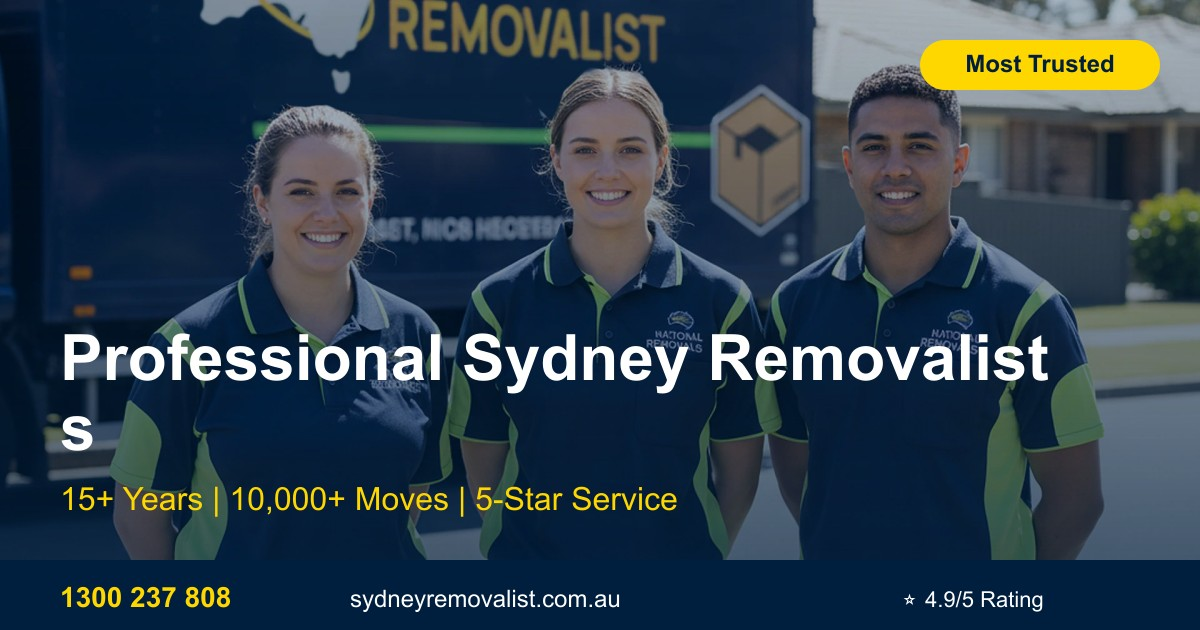
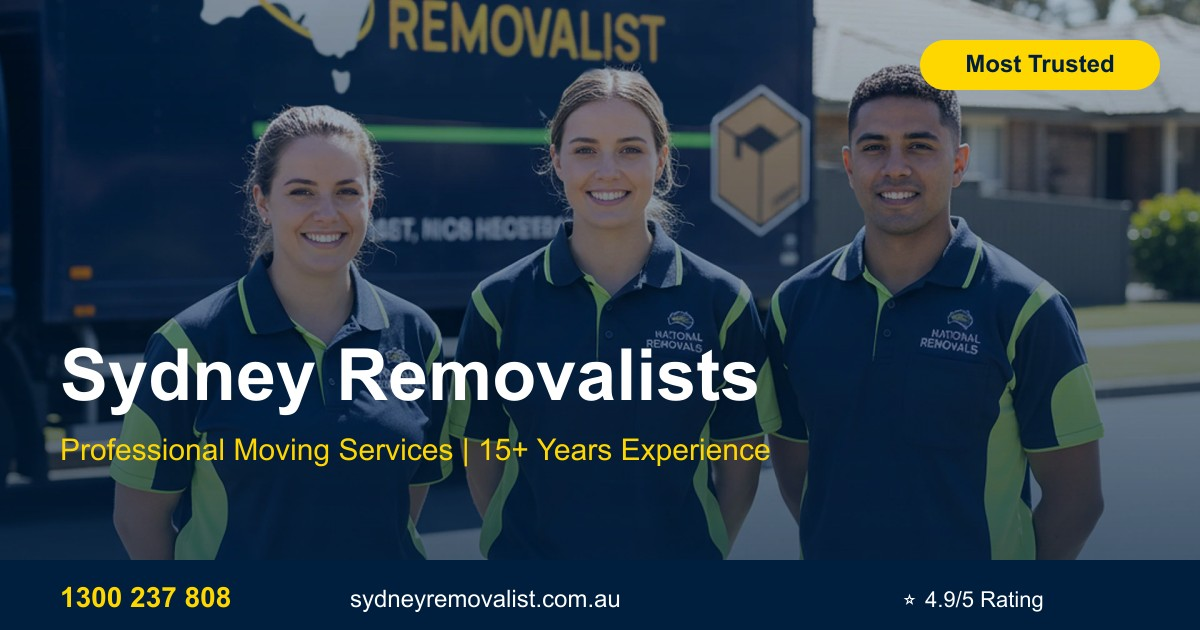
change home og image

Changed region(s): [[0.0308, 0.5127, 0.8942, 0.6635], [0.0308, 0.6635, 0.6475, 0.8143]]

diff --git a/scripts/generate-home-og-only.js b/scripts/generate-home-og-only.js
@@ -1,0 +1,65 @@
+const sharp = require('sharp');
+const fs = require('fs');
+const path = require('path');
+
+const OG_WIDTH = 1200;
+const OG_HEIGHT = 630;
+
+const COLORS = {
+  navy: '#001F3F',
+  yellow: '#FFD700',
+  white: '#FFFFFF'
+};
+
+async function generateHomeOG() {
+  const sourcePath = path.join(__dirname, '..', 'assets', 'removalist', '02.webp');
+  const outputPath = path.join(__dirname, '..', 'public', 'og-home.jpg');
+
+  console.log('Generating og-home.jpg...');
+
+  const svg = `
+    <svg width="${OG_WIDTH}" height="${OG_HEIGHT}">
+      <defs>
+        <linearGradient id="overlayGrad" x1="0%" y1="0%" x2="0%" y2="100%">
+          <stop offset="0%" style="stop-color:rgba(0,31,63,0.3);stop-opacity:1" />
+          <stop offset="100%" style="stop-color:rgba(0,31,63,0.75);stop-opacity:1" />
+        </linearGradient>
+      </defs>
+      <rect width="${OG_WIDTH}" height="${OG_HEIGHT}" fill="url(#overlayGrad)"/>
+
+      <rect x="920" y="40" width="240" height="50" rx="25" fill="${COLORS.yellow}"/>
+      <text x="1040" y="72" font-family="Arial, sans-serif" font-size="24" font-weight="bold"
+            fill="${COLORS.navy}" text-anchor="middle">Most Trusted</text>
+
+      <text x="60" y="400" font-family="Arial, sans-serif" font-size="72" font-weight="bold"
+            fill="${COLORS.white}" style="text-shadow: 2px 2px 8px rgba(0,0,0,0.8);">
+        Sydney Removalists
+      </text>
+
+      <text x="60" y="460" font-family="Arial, sans-serif" font-size="30"
+            fill="${COLORS.yellow}" style="text-shadow: 2px 2px 6px rgba(0,0,0,0.8);">
+        Professional Moving Services | 15+ Years Experience
+      </text>
+
+      <rect y="560" width="${OG_WIDTH}" height="70" fill="${COLORS.navy}"/>
+      <text x="60" y="607" font-family="Arial, sans-serif" font-size="28" font-weight="bold"
+            fill="${COLORS.yellow}">1300 237 808</text>
+      <text x="350" y="607" font-family="Arial, sans-serif" font-size="24"
+            fill="${COLORS.white}">sydneyremovalist.com.au</text>
+      <text x="900" y="607" font-family="Arial, sans-serif" font-size="22"
+            fill="${COLORS.white}">⭐ 4.9/5 Rating</text>
+    </svg>
+  `;
+
+  await sharp(sourcePath)
+    .resize(OG_WIDTH, OG_HEIGHT, { fit: 'cover', position: 'center' })
+    .composite([{ input: Buffer.from(svg), top: 0, left: 0 }])
+    .jpeg({ quality: 90 })
+    .toFile(outputPath);
+
+  const stats = fs.statSync(outputPath);
+  const fileSizeKB = Math.round(stats.size / 1024);
+  console.log(`✅ Generated og-home.jpg (${fileSizeKB} KB)`);
+}
+
+generateHomeOG().catch(console.error);

diff --git a/scripts/generate-og-images.js b/scripts/generate-og-images.js
@@ -141,8 +141,8 @@ async function generateAllOGImages() {
     {
       sourceImage: '02.webp',
       outputName: 'og-home.jpg',
-      title: 'Professional Sydney Removalists',
-      subtitle: '15+ Years | 10,000+ Moves | 5-Star Service',
+      title: 'Sydney Removalists',
+      subtitle: 'Professional Moving Services | 15+ Years Experience',
       badge: 'Most Trusted'
     },
     {
